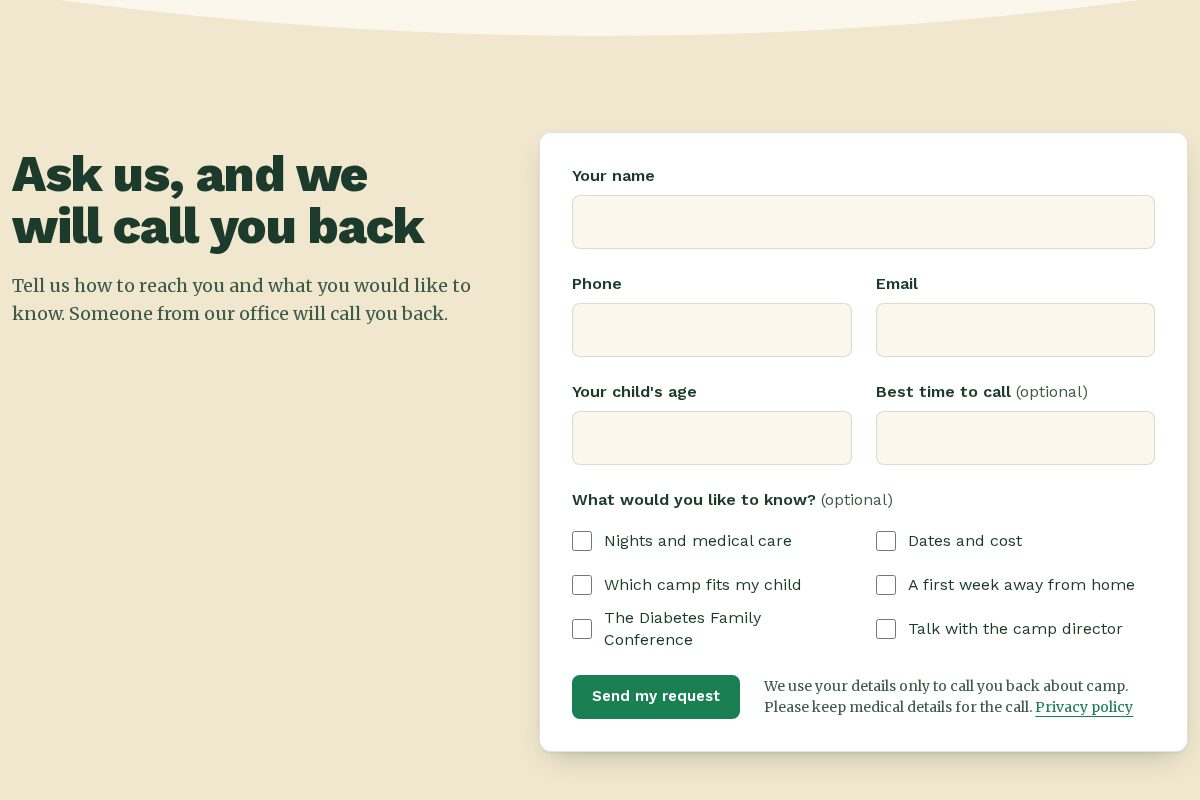
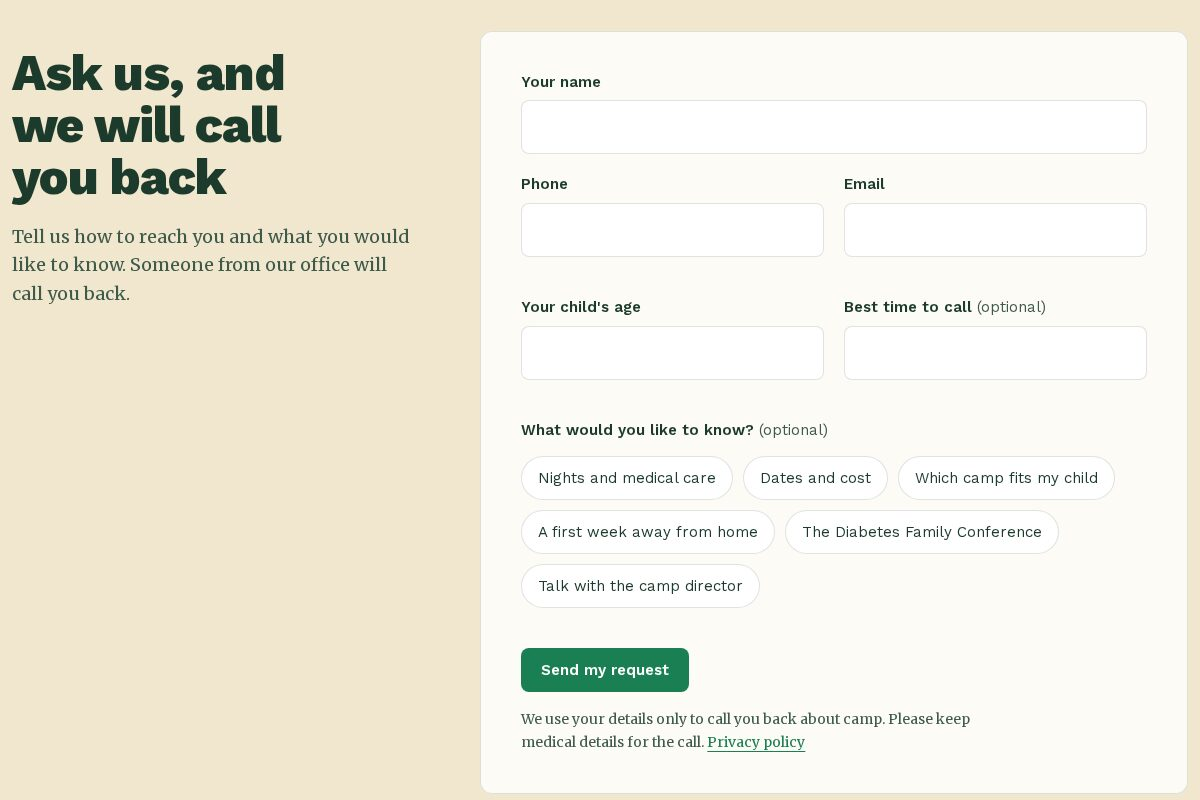
style(form): give the ask about camp form room to breathe (#69)
Ovi found the form crowded. It now follows the design system: a soft
card one step lighter than the field, flat with no shadow, instead of a
white card with a shadow. The form column is wider, related fields sit
close and groups are well apart, the topic choices are pills that wrap
and show a tick when chosen, and the privacy line sits under the Send
button. The phone error is shorter so it fits on two lines.

diff --git a/frontend/components/blocks/ask-about-camp-fields.tsx b/frontend/components/blocks/ask-about-camp-fields.tsx
@@ -14,6 +14,7 @@ import {
   validateAskAboutCamp,
 } from "@/lib/ask-about-camp";
 import { currentVisitSource } from "@/lib/visit-source";
+import { Check } from "lucide-react";
 import Link from "next/link";
 import {
   type FormEvent,
@@ -63,7 +64,7 @@ function TextField({
   const id = `ask-about-camp-${name}`;
   return (
     <div className="flex flex-col gap-2">
-      <Label className="text-base font-semibold leading-snug" htmlFor={id}>
+      <Label className="text-[15px] font-semibold leading-snug" htmlFor={id}>
         {label}
         {optional ? <span className="font-normal text-muted-foreground"> (optional)</span> : null}
       </Label>
@@ -71,14 +72,14 @@ function TextField({
         aria-describedby={error ? `${id}-error` : undefined}
         aria-invalid={error ? true : undefined}
         autoComplete={autoComplete}
-        className="bg-background"
+        className="border-[1.5px] bg-popover text-popover-foreground"
         id={id}
         name={name}
         required={!optional}
         type={type}
       />
       {error ? (
-        <p className="text-sm font-medium text-destructive" id={`${id}-error`}>
+        <p className="font-ui text-sm/[1.4] font-medium text-destructive" id={`${id}-error`}>
           {error}
         </p>
       ) : null}
@@ -167,7 +168,8 @@ export function AskAboutCampFields({
     startTransition(() => formAction(formData));
   }
 
-  const panel = "rounded-card border border-border bg-popover p-6 text-popover-foreground shadow-raised sm:p-8";
+  // A soft card: one step lighter than the field, flat at rest.
+  const panel = "rounded-card border-[1.5px] border-border bg-card p-6 text-card-foreground sm:p-10";
 
   if (state.status === "sent") {
     return (
@@ -193,35 +195,39 @@ export function AskAboutCampFields({
     // The panel keeps the light field's colours on every background, so
     // the labels, borders and error text stay readable on Forest.
     <div className="field-cream rounded-card">
-      <form className={`${panel} relative flex flex-col gap-6`} noValidate onSubmit={submit} ref={formRef}>
-        <TextField autoComplete="name" error={errors.name} label="Your name" name="name" />
-        <div className="grid gap-6 sm:grid-cols-2">
-          <TextField autoComplete="tel" error={errors.phone} label="Phone" name="phone" type="tel" />
-          <TextField autoComplete="email" error={errors.email} label="Email" name="email" type="email" />
+      <form className={`${panel} relative flex flex-col gap-10`} noValidate onSubmit={submit} ref={formRef}>
+        {/* Groups: how to reach you, your child, your questions, send. */}
+        <div className="flex flex-col gap-5">
+          <TextField autoComplete="name" error={errors.name} label="Your name" name="name" />
+          <div className="grid gap-5 md:grid-cols-2">
+            <TextField autoComplete="tel" error={errors.phone} label="Phone" name="phone" type="tel" />
+            <TextField autoComplete="email" error={errors.email} label="Email" name="email" type="email" />
+          </div>
         </div>
-        <div className="grid gap-6 sm:grid-cols-2">
+        <div className="grid gap-5 md:grid-cols-2">
           <TextField error={errors.childAge} label="Your child's age" name="childAge" />
           <TextField error={errors.bestTime} label="Best time to call" name="bestTime" optional />
         </div>
 
-        <fieldset className="flex flex-col gap-1">
-          <legend className="mb-2 text-base font-semibold leading-snug">
+        <fieldset>
+          <legend className="mb-4 text-[15px] font-semibold leading-snug">
             What would you like to know?
             <span className="font-normal text-muted-foreground"> (optional)</span>
           </legend>
-          <div className="grid gap-x-6 sm:grid-cols-2" data-sanity={editing.topics}>
+          <div className="flex flex-wrap gap-2.5" data-sanity={editing.topics}>
             {[...choices, director].map((choice) => (
               <label
-                className="flex min-h-11 cursor-pointer items-center gap-3 text-base leading-snug"
+                className="group inline-flex min-h-11 cursor-pointer select-none items-center gap-2 rounded-pill border-[1.5px] border-border bg-popover px-4 font-ui text-[15px] leading-snug text-popover-foreground transition-colors motion-fast hover:border-link/50 has-[:checked]:border-primary has-[:checked]:bg-primary has-[:checked]:text-primary-foreground has-[:focus-visible]:outline-2 has-[:focus-visible]:outline-offset-2 has-[:focus-visible]:outline-ring"
                 key={choice.value}
               >
                 <input
-                  className="size-5 shrink-0 accent-(--color-primary) focus-ring"
+                  className="sr-only"
                   name="interests"
                   ref={choice === director ? directorRef : undefined}
                   type="checkbox"
                   value={choice.value}
                 />
+                <Check aria-hidden="true" className="-ml-1 hidden size-4 group-has-[:checked]:block" />
                 {choice.label}
               </label>
             ))}
@@ -257,11 +263,11 @@ export function AskAboutCampFields({
           </div>
         ) : null}
 
-        <div className="flex flex-col gap-4 sm:flex-row sm:items-center sm:gap-6">
-          <Button className="w-full sm:w-auto" disabled={pending} type="submit">
+        <div className="flex flex-col gap-4">
+          <Button className="w-full sm:w-auto sm:self-start" disabled={pending} type="submit">
             {pending ? "Sending…" : "Send my request"}
           </Button>
-          <p className="text-pretty text-sm/[1.5] text-muted-foreground">
+          <p className="max-w-[52ch] text-pretty text-sm/[1.6] text-muted-foreground">
             <span data-sanity={editing.privacyLine}>{privacyLine}</span>{" "}
             <Link className="text-link underline underline-offset-4" href="/privacy-policy">
               Privacy policy

diff --git a/frontend/components/blocks/ask-about-camp-form.tsx b/frontend/components/blocks/ask-about-camp-form.tsx
@@ -42,7 +42,7 @@ export default function AskAboutCampForm({
       {/* The "Talk to the director" link lands here; the form ticks that choice. */}
       <span className="absolute top-0 scroll-mt-28" id={DIRECTOR_HASH.slice(1)} />
       <div className="container-content">
-        <div className="grid gap-10 lg:grid-cols-[minmax(0,5fr)_minmax(0,7fr)] lg:gap-16">
+        <div className="grid gap-10 lg:grid-cols-[minmax(0,4fr)_minmax(0,7fr)] lg:gap-16">
           <header className="lg:pt-4">
             <h2
               className="text-headline font-display font-extrabold text-balance"

diff --git a/frontend/lib/ask-about-camp.ts b/frontend/lib/ask-about-camp.ts
@@ -20,7 +20,7 @@ export const askAboutCampSchema = z.object({
     .min(1, "Enter your phone number.")
     .refine(
       (value) => /^[0-9+()\-. ]*$/.test(value) && value.replace(/\D/g, "").length >= 7,
-      "Enter a phone number with at least 7 digits, for example 610-555-0123.",
+      "Enter a phone number with at least 7 digits.",
     ),
   email: text(200)
     .min(1, "Enter your email address.")
